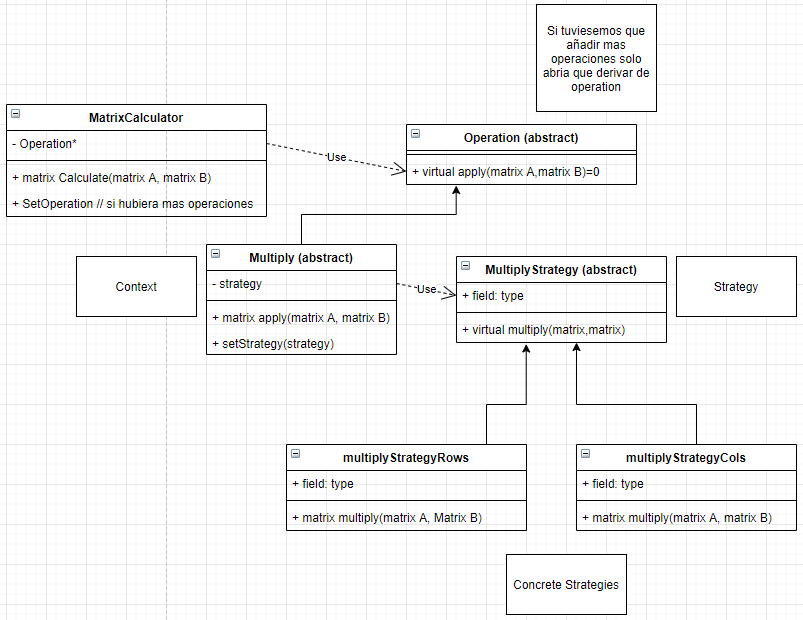
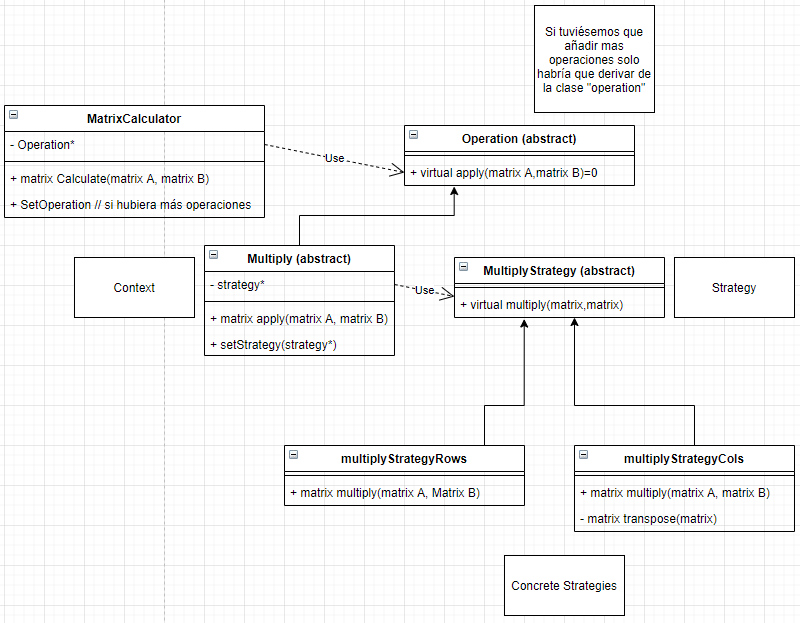
Demostración de las dos estrategias añadida

diff --git a/main/main.cpp b/main/main.cpp
@@ -13,9 +13,10 @@ void showMatrix(const Matrix& matrix){
 }
 
 int main(void){
-    Matrix A = {{1,2,3},{4,5,6},{7,8,9}};
-    Matrix B = {{1,5,9},{7,5,3},{0,1,0}};
-    Matrix C = {{1},{0},{1}};
+    Matrix A = {{1,2,3},{4,5,6},{7,8,9}}; // 3x3
+    Matrix B = {{1,5,9},{7,5,3},{0,1,0}}; // 3x3
+    Matrix C = {{1},{0},{1}}; //columna 3x1
+    Matrix D = {{3,1,4}}; //fila 1x3
    
     std::cout << "A" << std::endl;
     showMatrix(A);
@@ -26,14 +27,33 @@ int main(void){
     std::cout << std::endl << "C" << std::endl;
     showMatrix(C);
 
+    std::cout << std::endl << "D" << std::endl;
+    showMatrix(D);
+
     MatrixCalculator myMatrixCalculator;
     myMatrixCalculator.setOperation(new Multiply(new multiplyStrategyCols));
+    std::cout << std::endl << "***** Strategy Cols! *****" << std::endl;
 
     std::cout << std::endl << "AxB" << std::endl;
     showMatrix(myMatrixCalculator.operate(A,B));
     
     std::cout << std::endl << "AxC" << std::endl;
     showMatrix(myMatrixCalculator.operate(A,C));
+
+    std::cout << std::endl << "AxD" << std::endl;
+    showMatrix(myMatrixCalculator.operate(A,D));
+
+    // Change the Strategy
+    myMatrixCalculator.setOperation(new Multiply(new multiplyStrategyRows));
+    std::cout << std::endl << "***** Strategy Rows! *****" << std::endl;
+
+    std::cout << std::endl << "AxB" << std::endl;
+    showMatrix(myMatrixCalculator.operate(A,B));
     
+    std::cout << std::endl << "AxC" << std::endl;
+    showMatrix(myMatrixCalculator.operate(A,C));
+
+    std::cout << std::endl << "AxD" << std::endl;
+    showMatrix(myMatrixCalculator.operate(A,D));
     return 0;
 }

diff --git a/src/multiplyStrategyCols.cpp b/src/multiplyStrategyCols.cpp
@@ -7,7 +7,6 @@ Matrix multiplyStrategyCols::multiply(const Matrix& A, const Matrix& B)const{
         return result;
     }
     Matrix Btransposed = transpose(B);
-    
     // NxM MxO = NxO
     if (  A[0].size() == Btransposed.size()){
         result.resize(A.size());
@@ -29,7 +28,7 @@ Matrix multiplyStrategyCols::multiply(const Matrix& A, const Matrix& B)const{
 Matrix multiplyStrategyCols::transpose(const Matrix& originalMatrix)const{
     Matrix result;
     result.resize(originalMatrix[0].size());
-    for (size_t i = 0; i < originalMatrix.size(); i++){
+    for (size_t i = 0; i < originalMatrix[0].size(); i++){
         result[i].resize(originalMatrix.size());
     }
     for (size_t i = 0; i < originalMatrix.size(); i++){

diff --git a/src/matrixCalculator.cpp b/src/matrixCalculator.cpp
@@ -4,6 +4,14 @@ MatrixCalculator::MatrixCalculator(){
     operation_ = NULL;
 }
 
+MatrixCalculator::~MatrixCalculator(){
+    if (operation_){
+        delete operation_;
+    }
+    operation_ = NULL;
+}
+
+
 void MatrixCalculator::setOperation(Operation* operation){
     // si el puntero no es nulo
     if ( operation ){

diff --git a/include/matrixcalculator.hpp b/include/matrixcalculator.hpp
@@ -12,7 +12,7 @@ class MatrixCalculator{
         Operation* operation_;
     public:
         MatrixCalculator();
-        ~MatrixCalculator(){}
+        ~MatrixCalculator();
 
         void setOperation(Operation*);
 
